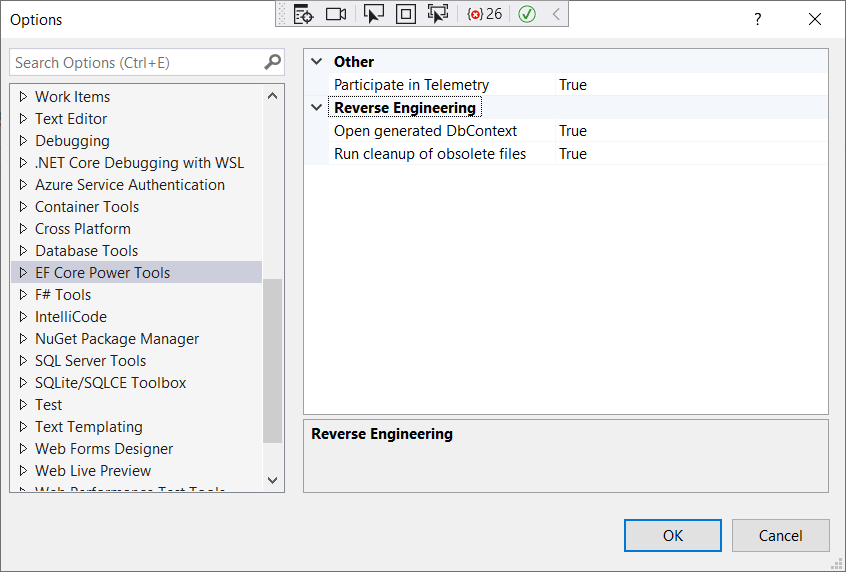
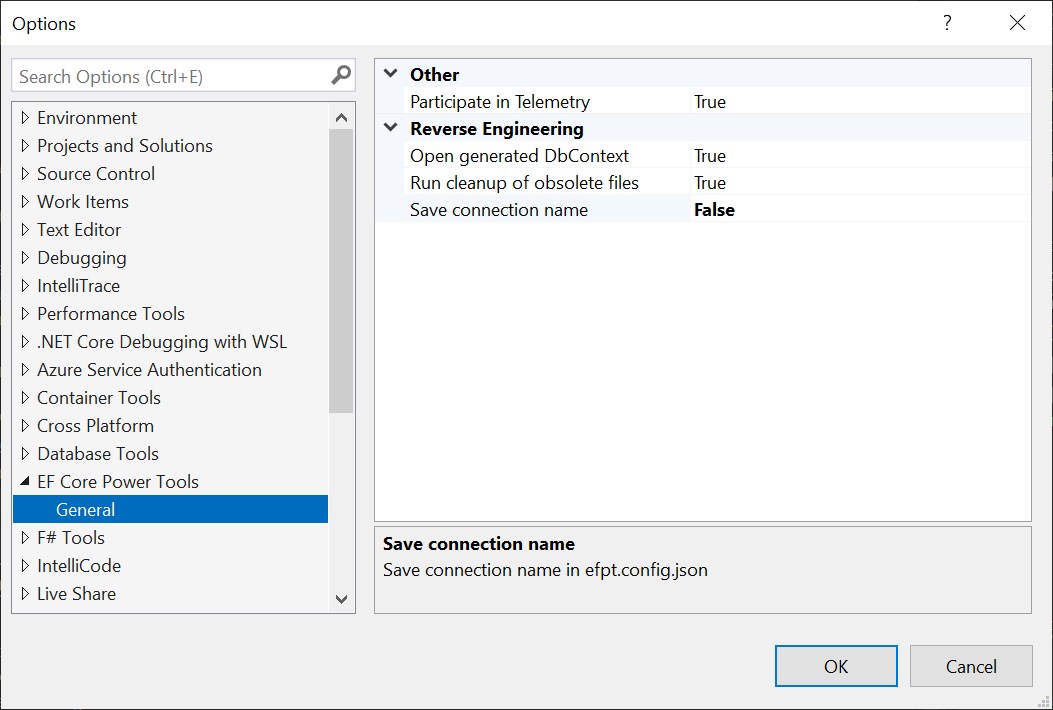
Added support for dropping own CodeTemplates.zip file in root of project
Added option to not save "UiHint"

fixes #1159
fixes #1162

diff --git a/src/GUI/Shared/Handlers/ReverseEngineer/ReverseEngineerHandler.cs b/src/GUI/Shared/Handlers/ReverseEngineer/ReverseEngineerHandler.cs
@@ -540,6 +540,11 @@ namespace EFCorePowerTools.Handlers.ReverseEngineer
 
             if (!File.Exists(optionsPath + ".ignore"))
             {
+                if (!Properties.Settings.Default.IncludeUiHintInConfig)
+                {
+                    options.UiHint = null;
+                }
+
                 File.WriteAllText(optionsPath, options.Write(Path.GetDirectoryName(project.FullPath)), Encoding.UTF8);
 
                 await project.AddExistingFilesAsync(new List<string> { optionsPath }.ToArray());
@@ -561,15 +566,23 @@ namespace EFCorePowerTools.Handlers.ReverseEngineer
 
         private void DropTemplates(string projectPath, bool useEFCore5)
         {
-            var zipName = useEFCore5 ? "CodeTemplates502.zip" : "CodeTemplates.zip";
+            var defaultZip = "CodeTemplates.zip";
+            var zipName = useEFCore5 ? "CodeTemplates502.zip" : defaultZip;
 
             var toDir = Path.Combine(projectPath, "CodeTemplates");
-            var fromDir = Path.GetDirectoryName(Assembly.GetExecutingAssembly().Location);
+            
+            var userTemplateZip = Path.Combine(projectPath, defaultZip);
+            var templateZip = Path.Combine(Path.GetDirectoryName(Assembly.GetExecutingAssembly().Location), zipName);
+
+            if (File.Exists(userTemplateZip))
+            {
+                templateZip = userTemplateZip;
+            }
 
             if (!Directory.Exists(toDir) || IsDirectoryEmpty(toDir))
             {
                 Directory.CreateDirectory(toDir);
-                ZipFile.ExtractToDirectory(Path.Combine(fromDir, zipName), toDir);
+                ZipFile.ExtractToDirectory(templateZip, toDir);
             }
         }
 

diff --git a/src/GUI/Shared/Options/OptionsPageGeneral.cs b/src/GUI/Shared/Options/OptionsPageGeneral.cs
@@ -13,6 +13,7 @@ namespace EFCorePowerTools
             ParticipateInTelemetry = Properties.Settings.Default.ParticipateInTelemetry;
             OpenGeneratedDbContext = Properties.Settings.Default.OpenGeneratedDbContext;
             RunCleanup = Properties.Settings.Default.RunCleanup;
+            IncludeUiHintInConfig = Properties.Settings.Default.IncludeUiHintInConfig;
             base.OnActivate(e);
         }
 
@@ -28,6 +29,13 @@ namespace EFCorePowerTools
         DefaultValue(true)]
         public bool RunCleanup { get; set; }
 
+
+        [Category("Reverse Engineering"),
+        DisplayName(@"Save connection name"),
+        Description("Save connection name in efpt.config.json"),
+        DefaultValue(true)]
+        public bool IncludeUiHintInConfig { get; set; }
+
         [Category("Other"),
         DisplayName(@"Participate in Telemetry"),
         Description("Help improve the EF Core Power Tools by providing anynonymous usage data and crash reports"),
@@ -39,6 +47,7 @@ namespace EFCorePowerTools
             Properties.Settings.Default.ParticipateInTelemetry = ParticipateInTelemetry;
             Properties.Settings.Default.OpenGeneratedDbContext = OpenGeneratedDbContext;
             Properties.Settings.Default.RunCleanup = RunCleanup;
+            Properties.Settings.Default.IncludeUiHintInConfig = IncludeUiHintInConfig;
             Properties.Settings.Default.Save();
             base.OnApply(e);
         }

diff --git a/src/GUI/EFCorePowerTools/Properties/Settings.Designer.cs b/src/GUI/EFCorePowerTools/Properties/Settings.Designer.cs
@@ -58,5 +58,17 @@ namespace EFCorePowerTools.Properties {
                 this["RunCleanup"] = value;
             }
         }
+        
+        [global::System.Configuration.UserScopedSettingAttribute()]
+        [global::System.Diagnostics.DebuggerNonUserCodeAttribute()]
+        [global::System.Configuration.DefaultSettingValueAttribute("True")]
+        public bool IncludeUiHintInConfig {
+            get {
+                return ((bool)(this["IncludeUiHintInConfig"]));
+            }
+            set {
+                this["IncludeUiHintInConfig"] = value;
+            }
+        }
     }
 }

diff --git a/test/ScaffoldingTester/ScaffoldingTester5/Models/NorthwindContextProcedures.cs b/test/ScaffoldingTester/ScaffoldingTester5/Models/NorthwindContextProcedures.cs
@@ -14,7 +14,7 @@ namespace ScaffoldingTester.Models
     {
         private NorthwindContextProcedures _procedures;
 
-        public NorthwindContextProcedures Procedures
+        public virtual NorthwindContextProcedures Procedures
         {
             get
             {
